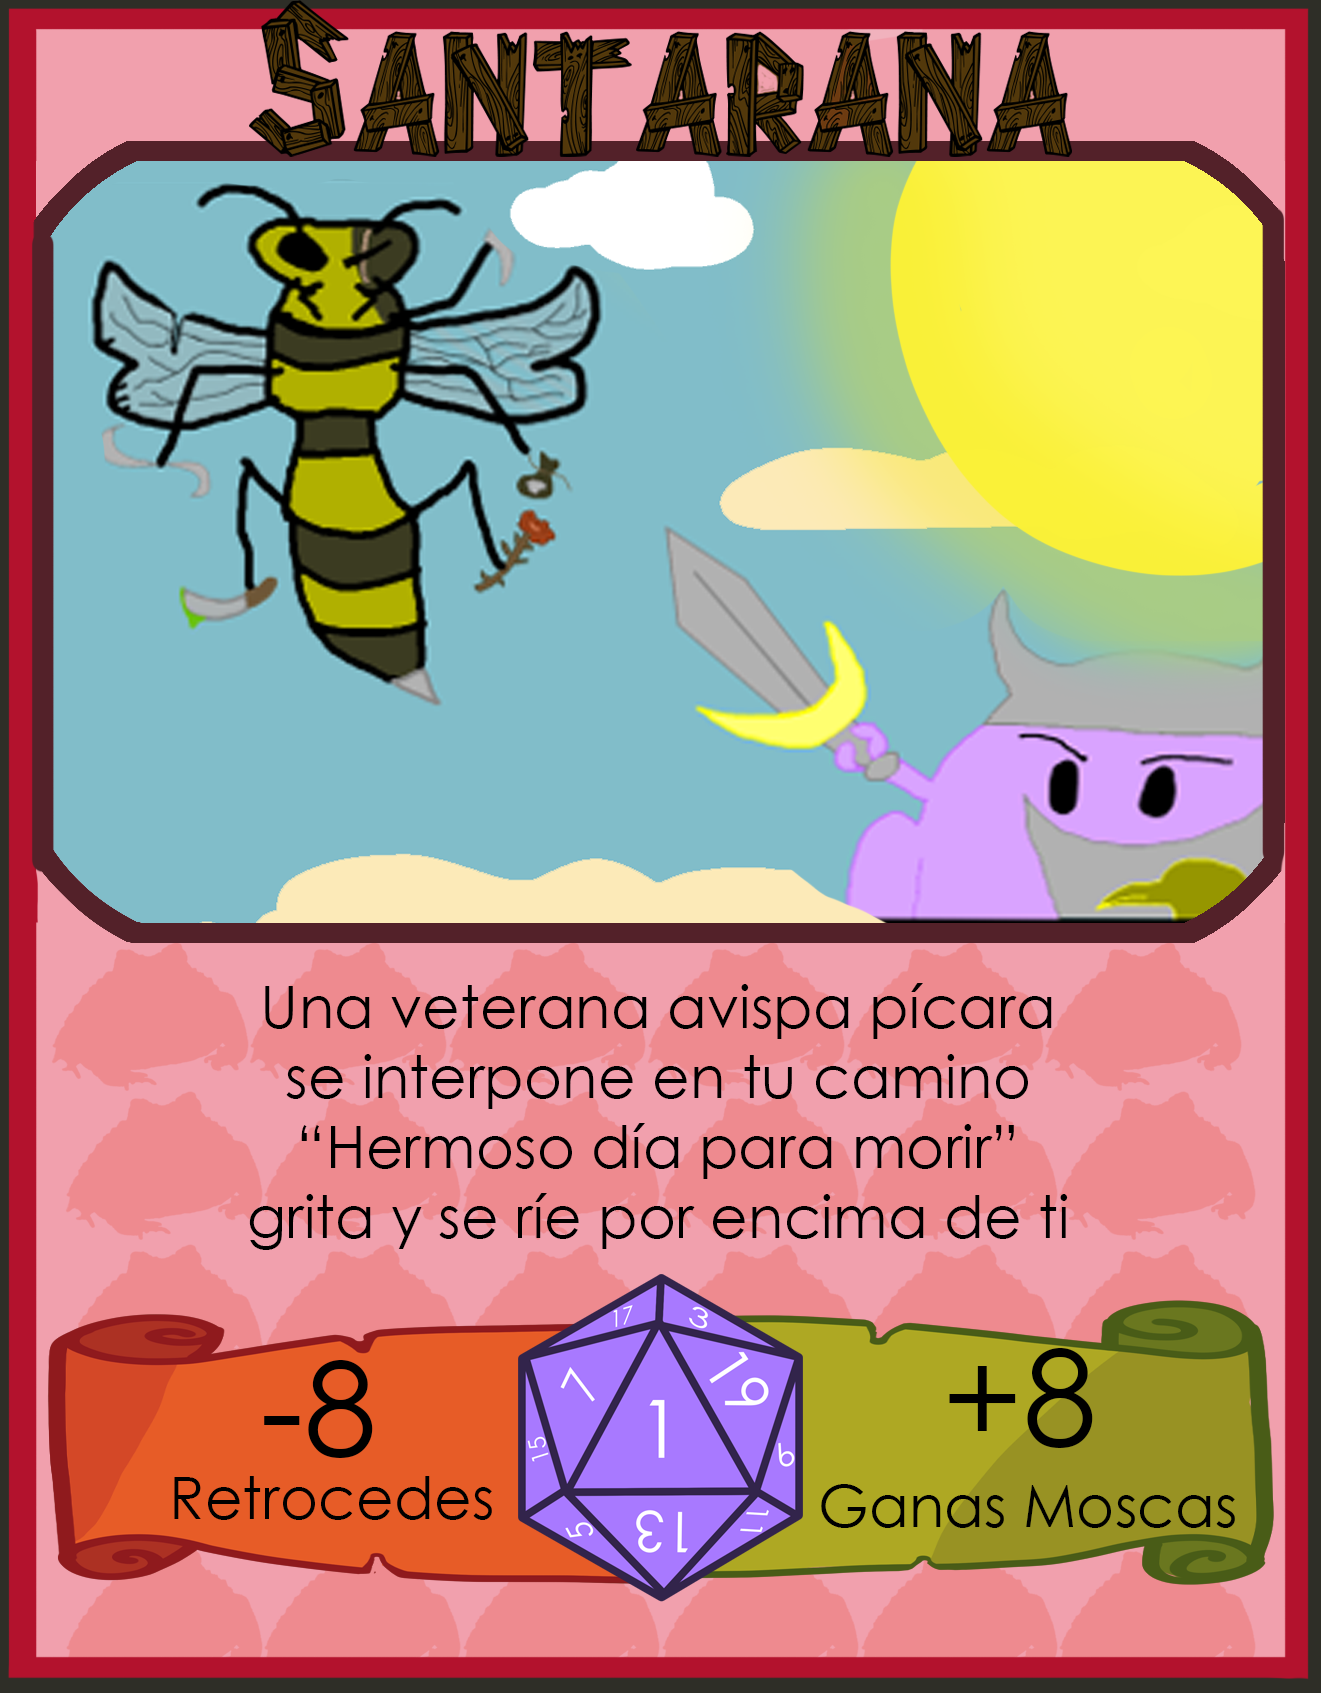
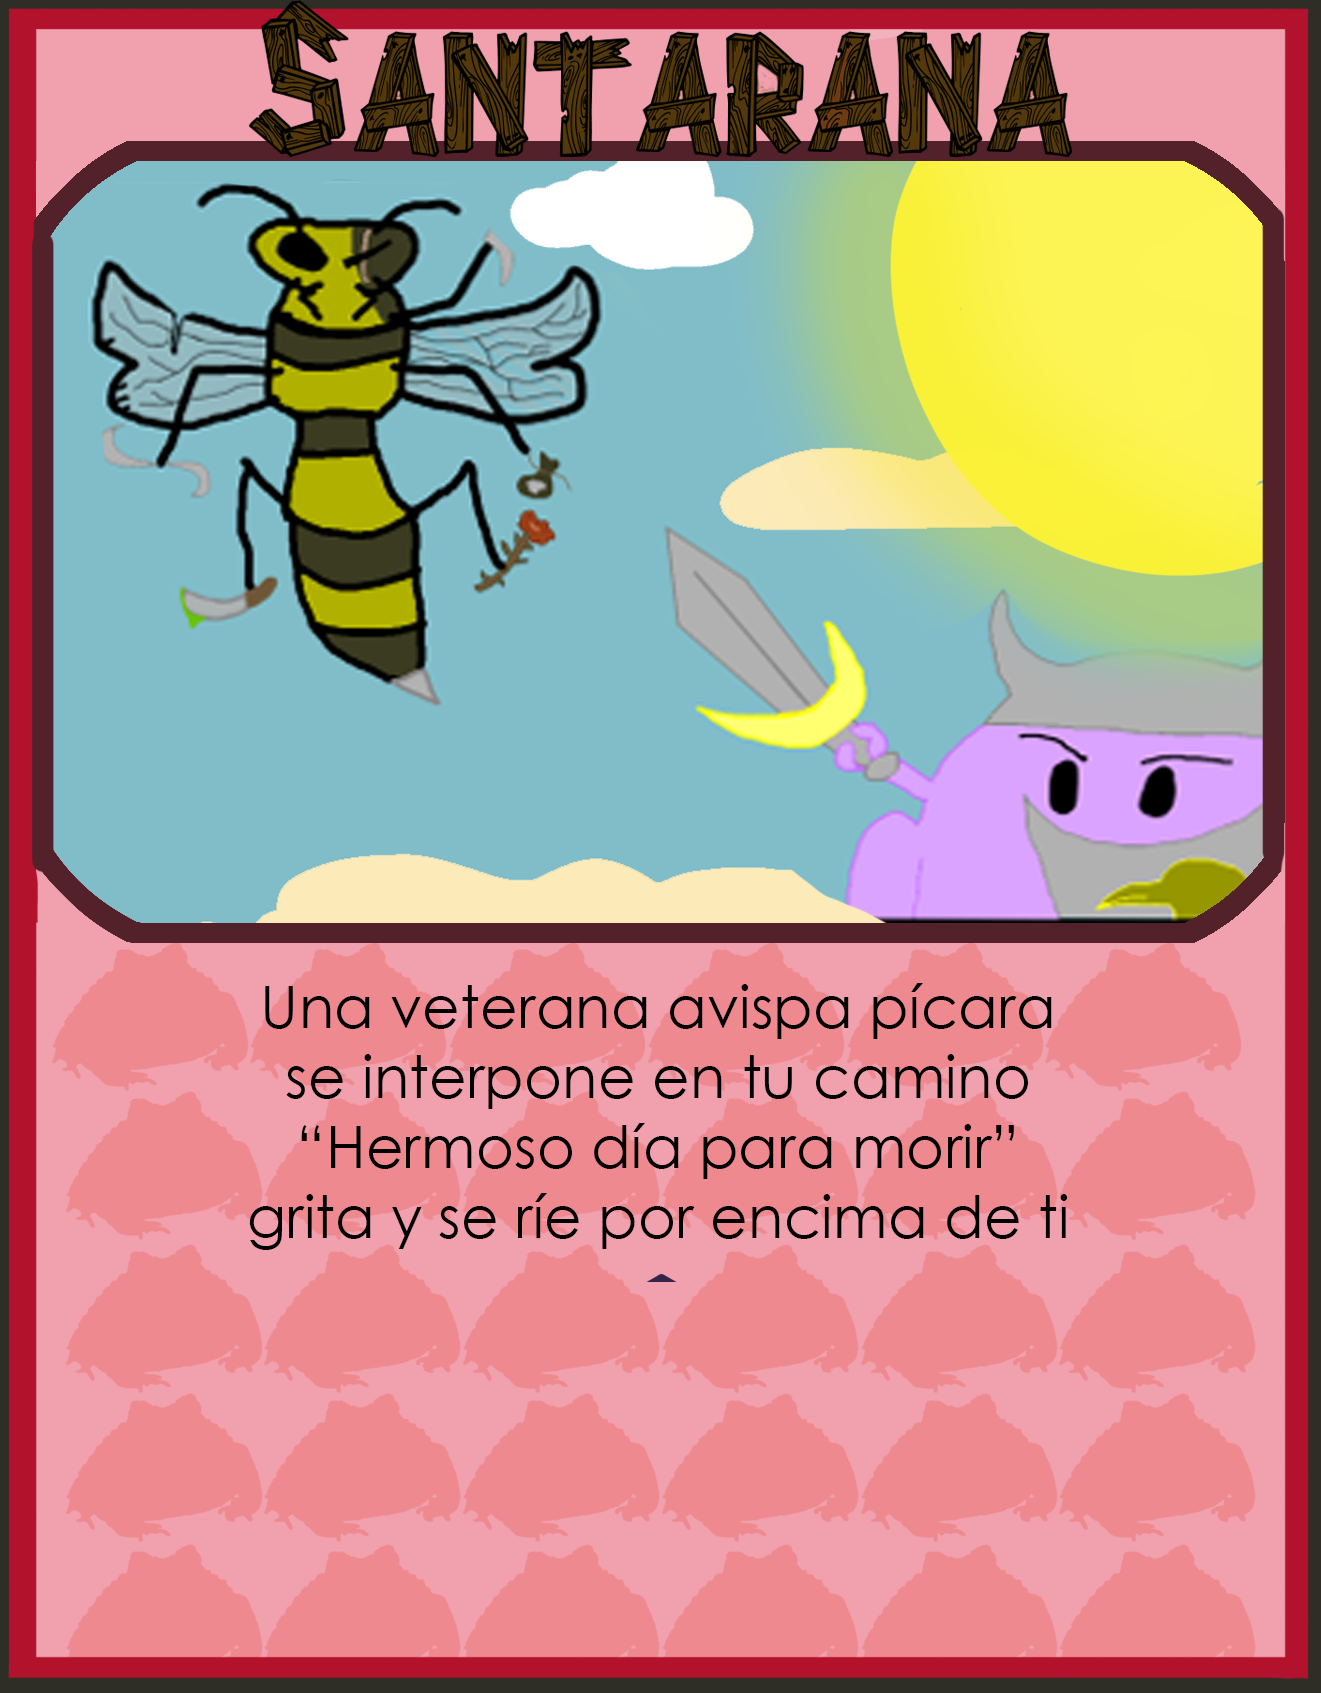
Se implementaron los botones de las cartas renovados y nuevas funciones como el retroceso y avance(falta mejorar y agregar función de las cartas rojas

Changed region(s): [[0.031, 0.7372, 0.9621, 0.9522]]

diff --git a/src/scenes/play.js b/src/scenes/play.js
@@ -23,7 +23,6 @@ var XD;
 var sonid4; //Sonido dado d4
 var saltotesonido; //Sonido saltote
 var sonidorana;
-var victoria;
 var gameOver;
 let coco = 4800;
 let player;
@@ -43,9 +42,9 @@ export class Play extends Phaser.Scene {
 
   create() {
     this.parallax = this.add.image(coco, 100, 'nubes_bg');
-    let animaciones = [["desfrog", "sfrog"],["tpfrog","destpfrog"]];
-    const tablero = this.make.tilemap({ key: "tablero"}); 
-    const tilesetBelow = tablero.addTilesetImage(
+    let animaciones = [["desfrog", "sfrog"],["tpfrog2","destpfrog2"],["tpfrog3","destpfrog2"]];
+    this.tablero = this.make.tilemap({ key: "tablero"}); 
+    const tilesetBelow = this.tablero.addTilesetImage(
       "tablero_bg",
       "tilesBelow"
     );
@@ -54,18 +53,18 @@ export class Play extends Phaser.Scene {
       //"tilesPlatform"
     //);
 
-    const worldLayer = tablero.createLayer("Fondo", tilesetBelow, 0, 0);
+    const worldLayer = this.tablero.createLayer("Fondo", tilesetBelow, 0, 0);
     //const worldLayer = tablero.createLayer("CasillaRoja", tilesetPlatform, 0, 0);
-    const objectsLayer = tablero.getObjectLayer("Objetos");
+    const objectsLayer = this.tablero.getObjectLayer("Objetos");
 
     //worldLayer.setCollisionByProperty({ collides: true });
 
     // The player1 and its settings
-    let spawnPoint = tablero.findObject("Players", (obj) => obj.name === "sapo0");
+    let spawnPoint = this.tablero.findObject("Players", (obj) => obj.name === "sapo0");
     let player1 = this.physics.add.sprite(spawnPoint.x, spawnPoint.y, "sapo0").setScale(0.1);
-    spawnPoint = tablero.findObject("Players", (obj) => obj.name === "sapo1");
+    spawnPoint = this.tablero.findObject("Players", (obj) => obj.name === "sapo1");
     let player2 = this.physics.add.sprite(spawnPoint.x, spawnPoint.y, "sapo1").setScale(0.1);
-    spawnPoint = tablero.findObject("Players", (obj) => obj.name === "sapo2");
+    spawnPoint = this.tablero.findObject("Players", (obj) => obj.name === "sapo2");
     let player3 = this.physics.add.sprite(spawnPoint.x, spawnPoint.y, "sapo2").setScale(0.1);
     player1.setCollideWorldBounds(true);
     player2.setCollideWorldBounds(true);
@@ -133,7 +132,7 @@ export class Play extends Phaser.Scene {
     proxcasjg3 = 0;
     this.JugadorTurno("Jugador 1");
 
-    spawnPoint = tablero.findObject("Botones", (obj) => obj.name == ('Dado'));
+    spawnPoint = this.tablero.findObject("Botones", (obj) => obj.name == ('Dado'));
     let BotonDado = new Button( //Lanzar Dado
       spawnPoint.x,
       spawnPoint.y,
@@ -145,21 +144,18 @@ export class Play extends Phaser.Scene {
           let randomNumber = Math.floor(Math.random()*4) + 1;
           this.Dado(randomNumber);
           if (JTurno == '0') {
-            this.JugadorTurno("Jugador 2");
             proxcasjg1 += randomNumber;
             proxcas = proxcasjg1;
           } else if (JTurno == '1') {
-            this.JugadorTurno("Jugador 3");
             proxcasjg2 += randomNumber;
             proxcas = proxcasjg2;
           } else {
-            this.JugadorTurno("Jugador 1");
             proxcasjg3 += randomNumber;
             proxcas = proxcasjg3;
           }
           
           if (proxcas>=41) {
-            let casPoint = tablero.findObject("Objetos", (obj) => obj.type === "41");
+            let casPoint = this.tablero.findObject("Objetos", (obj) => obj.type === "41");
             setTimeout(() => {
               Players[JTurno].setPosition(casPoint.x+1, casPoint.y+1);
             }, 2000);
@@ -172,23 +168,23 @@ export class Play extends Phaser.Scene {
             gameOver = true;
           } else {
             XD = 1;
-            var casPoint = tablero.findObject("Objetos", (obj) => obj.type == (proxcas));
+            let casPoint = this.tablero.findObject("Objetos", (obj) => obj.type == (proxcas));
             Players[JTurno].play(animaciones[JTurno][0]);
             setTimeout(() => {
               Players[JTurno].setPosition(casPoint.x+1, casPoint.y+1);
               Players[JTurno].play(animaciones[JTurno][1]);
-            }, 1500);
+            }, 1000);
             //this.Carta(proxcas);
             setTimeout(() => {
               Players[JTurno].stop();
-              this.Casilla(proxcas);
+              this.Casilla(proxcas, Players[JTurno]);
               Players[JTurno].setTexture('sapo'+ JTurno);
-            }, 3000);
+            }, 2000);
           }
       });
       BotonDado.achicar(0.2);
       
-      spawnPoint = tablero.findObject("Botones", (obj) => obj.name == ('Saltote'));
+      spawnPoint = this.tablero.findObject("Botones", (obj) => obj.name == ('Saltote'));
       this.BotonSalto = new Button( //Lanzar saltote
       spawnPoint.x,
       spawnPoint.y,
@@ -206,23 +202,20 @@ export class Play extends Phaser.Scene {
           {
             saltotesonido.play();
               if (JTurno == '0') {
-              this.JugadorTurno("Jugador 2");
               proxcasjg1 += 8;
               proxcas = proxcasjg1;
               scorejg1-=20;
             } else if (JTurno == '1') {
-              this.JugadorTurno("Jugador 3");
               proxcasjg2 += 8;
               proxcas = proxcasjg2;
               scorejg2-=20;
             } else {
-              this.JugadorTurno("Jugador 1");
               proxcasjg3 += 8;
               proxcas = proxcasjg3;
               scorejg3-=20;
             }
             XD = 1;
-            var casPoint = tablero.findObject("Objetos", (obj) => obj.type == (proxcas));
+            var casPoint = this.tablero.findObject("Objetos", (obj) => obj.type == (proxcas));
             setTimeout(() => {
               Players[JTurno].setPosition(casPoint.x+1, casPoint.y+1)
               this.Casilla(proxcas);
@@ -231,15 +224,16 @@ export class Play extends Phaser.Scene {
         });
         this.BotonSalto.achicar(0.12);
 
-      scorejg1 = 30;
-      scorejg2 = 30;
-      scorejg3 = 30;
+      scorejg1 = 300;
+      scorejg2 = 300;
+      scorejg3 = 300;
       scoreac = 30;
 
-      spawnPoint = tablero.findObject("Botones", (obj) => obj.name == ('Score'));
+      spawnPoint = this.tablero.findObject("Botones", (obj) => obj.name == ('Score'));
       this.add.sprite(spawnPoint.x, spawnPoint.y, 'ContMoscas').setScale(0.2);
       scoretext = this.add.text(spawnPoint.x*1.05, spawnPoint.y*0.60, "", { //Texto Score
         fontSize: "36px",
+        // @ts-ignore
         fill: "#000000",
         fontFamily: 'Arial'
       });
@@ -253,7 +247,7 @@ export class Play extends Phaser.Scene {
         this.scene.switch("Opcion");
       });
      
-    spawnPoint = tablero.findObject("Botones", (obj) => obj.name == ('Ayuda'));
+    spawnPoint = this.tablero.findObject("Botones", (obj) => obj.name == ('Ayuda'));
     new Button( //Ayuda
     spawnPoint.x, spawnPoint.y,
        "ayuda",
@@ -285,13 +279,13 @@ export class Play extends Phaser.Scene {
   }
     //Funciones
 
-    Casilla(proxcas){
+    Casilla(proxcas, pos){
         if (proxcas == 3 || proxcas == 6 || proxcas == 9 || proxcas == 12 || proxcas == 15 || proxcas == 18  || proxcas == 21 || proxcas == 24 || proxcas == 27 || proxcas == 30 || proxcas == 33 || proxcas == 36 || proxcas == 39){
           this.CartaRoja(proxcas);
         } else if (proxcas == 1 || proxcas == 4 || proxcas == 7 || proxcas == 10 || proxcas == 13 || proxcas == 16 || proxcas == 19 || proxcas == 22 || proxcas == 25 || proxcas == 28 || proxcas == 31 || proxcas == 34 || proxcas == 37 || proxcas == 40){
           this.CartaVerde(proxcas);
         } else {
-          this.CartaAmarilla(proxcas);
+          this.CartaAmarilla(proxcas, pos);
         }
       }
 
@@ -335,36 +329,44 @@ export class Play extends Phaser.Scene {
       }
     }
 
-    amarilla(){
-      if (XD == 1) {
+    amarilla(proxcas, pos){
+      if (this.d20() >= 8) {
         if (CTurno == 'Jugador 1') {
-          scorejg1 -= 10;
-          scoreac = scorejg2;
-          XD +=1;
+          const numcas = parseInt(proxcas) + 2;
+          let casPoint = this.tablero.findObject("Objetos", (obj) => obj.type == (numcas.toString()));
+          pos.setPosition(casPoint.x+1, casPoint.y+1);
         } else if (CTurno == 'Jugador 2') {
-          scorejg2 -= 10;
-          scoreac = scorejg3;
-          XD +=1;
+          const numcas = parseInt(proxcas) + 2;
+          let casPoint = this.tablero.findObject("Objetos", (obj) => obj.type == (numcas.toString()));
+          pos.setPosition(casPoint.x+1, casPoint.y+1);
         } else if (CTurno == 'Jugador 3'){
-          scorejg3 -= 10;
+          const numcas = parseInt(proxcas) + 2;
+          let casPoint = this.tablero.findObject("Objetos", (obj) => obj.type == (numcas.toString()));
+          pos.setPosition(casPoint.x+1, casPoint.y+1);
           scoreac = scorejg1;
-          XD +=1;
         }
-        this.turno();
-        scoretext.setText(scoreac);
+      } else {
+        const numcas = parseInt(proxcas) - 2;
+        let casPoint = this.tablero.findObject("Objetos", (obj) => obj.type == (numcas.toString()));
+        pos.setPosition(casPoint.x+1, casPoint.y+1);
       }
+      this.turno();
+      scoretext.setText(scoreac);
     }
 
     turno(){
       if (JTurno == '0') {
         JTurno = '1';
         CTurno = 'Jugador 2';
+        this.JugadorTurno(CTurno);
       } else if (JTurno == '1') {
         JTurno = '2';
         CTurno = 'Jugador 3';
+        this.JugadorTurno(CTurno);
       } else if (JTurno == '2'){
         JTurno = '0';
         CTurno = 'Jugador 1';
+        this.JugadorTurno(CTurno);
       }
     }
 
@@ -397,13 +399,13 @@ export class Play extends Phaser.Scene {
       this,
       () => {this.roja()})
     }
-    CartaAmarilla(NCarta){
+    CartaAmarilla(NCarta, pos){
       new CartaAm( //carta?
       this.cameras.main.centerX,
       this.cameras.main.centerY,
       '2',
       this,
-      () => {this.amarilla()},() => { this.turno();
+      () => {this.amarilla(NCarta, pos)},() => { this.turno();
       scoretext.setText(scoreac)})
     }
     CartaVerde(NCarta){
@@ -413,6 +415,9 @@ export class Play extends Phaser.Scene {
       '1',
       this,
       () => {this.verde()})
+    }
+    d20(){
+      return Math.floor(Math.random()*20) + 1;
     }
 }
 

diff --git a/src/scenes/preloads.js b/src/scenes/preloads.js
@@ -52,6 +52,14 @@ export class Preloads extends Phaser.Scene {
       frameWidth: 1125,
       frameHeight: 834,
     });
+    this.load.spritesheet("tp3", "assets/images/sapo3tp.png", {
+      frameWidth: 1125,
+      frameHeight: 834,
+    });
+    this.load.spritesheet("victoriafinal", "assets/images/victoriafinal.png", {
+      frameWidth: 999,
+      frameHeight: 1000,
+    });
     this.load.image('vacio','assets/images/casillerovacio.png') //Vacio tuki
     //Botones
     this.load.image('ayuda','assets/images/ayuda.png');
@@ -78,8 +86,6 @@ export class Preloads extends Phaser.Scene {
     this.load.image('botonam1','assets/images/cartas/Boton1Amarilla.png');
     this.load.image('botonam2','assets/images/cartas/Boton2Amarilla.png');
     this.load.image('botonro1','assets/images/cartas/Boton1Rojo.png');
-    //Video
-    this.load.video('final','assets/images/omglf.mp4')
   }
 
   create() {
@@ -99,10 +105,12 @@ export class Preloads extends Phaser.Scene {
            fontFamily: 'Arial'
        })
       //this.player = this.add.sprite(this.cameras.main.centerX, this.cameras.main.centerY, 'despawn'); sale animazao
-      this.anims.create({key:"desfrog", frames: this.anims.generateFrameNumbers("despawn", {start:0, end:6}), duration: 1500, repeat:0})
-      this.anims.create({key:"sfrog", frames: this.anims.generateFrameNumbers("spawn", {start:0, end:6}), duration: 1500, repeat:0})
-      this.anims.create({key:"destpfrog", frames: this.anims.generateFrameNumbers("destp", {start:0, end:10}), duration: 1500, repeat:0})
-      this.anims.create({key:"tpfrog", frames: this.anims.generateFrameNumbers("tp", {start:0, end:10}), duration: 1500, repeat:0})
+      this.anims.create({key:"desfrog", frames: this.anims.generateFrameNumbers("despawn", {start:0, end:6}), duration: 1000, repeat:0})
+      this.anims.create({key:"sfrog", frames: this.anims.generateFrameNumbers("spawn", {start:0, end:6}), duration: 1000, repeat:0})
+      this.anims.create({key:"tpfrog2", frames: this.anims.generateFrameNumbers("tp", {start:0, end:10}), duration: 1000, repeat:0})
+      this.anims.create({key:"destpfrog2", frames: this.anims.generateFrameNumbers("destp", {start:0, end:10}), duration: 1000, repeat:0})
+      this.anims.create({key:"tpfrog3", frames: this.anims.generateFrameNumbers("tp3", {start:0, end:10}), duration: 1000, repeat:0})
+      this.anims.create({key:"victoriarda", frames: this.anims.generateFrameNumbers("victoriafinal", {start:0, end:10}), duration: 2000, repeat:-1})
       // Se agrega un timer y luego a la escena del menú principal
     setTimeout(() => {
       this.scene.start("MainMenu");

diff --git a/src/scenes/victoria.js b/src/scenes/victoria.js
@@ -28,14 +28,15 @@ export class Victoria extends Phaser.Scene {
     }
 
     JugadorTurno(Turno){
-        this.add.image(this.cameras.main.centerX, this.cameras.main.centerY-this.cameras.main.centerY/1.15, Turno).setScale(0.18);
+        let cartel = this.add.sprite(this.cameras.main.centerX, this.cameras.main.centerY/1.25, Turno).setScale(0.4);
         if (Turno == 'Jugador 1') {
-          this.add.image(this.cameras.main.centerX*1.11, this.cameras.main.centerY-this.cameras.main.centerY/1.08, "sapo").setScale(0.6);
+          this.add.image(this.cameras.main.centerX*1.15, this.cameras.main.centerY*1.3, "sapo0").setScale(0.2);
         } else if (Turno == 'Jugador 2') {
-          this.add.image(this.cameras.main.centerX*1.11, this.cameras.main.centerY-this.cameras.main.centerY/1.08, "sapo2").setScale(0.6);
+          this.add.image(this.cameras.main.centerX*1.15, this.cameras.main.centerY*1.3, "sapo1").setScale(0.2);
         } else if (Turno == 'Jugador 3'){
-          this.add.image(this.cameras.main.centerX*1.11, this.cameras.main.centerY-this.cameras.main.centerY/1.08, "sapo3").setScale(0.6);
+          this.add.image(this.cameras.main.centerX*1.15, this.cameras.main.centerY*1.3, "sapo2").setScale(0.2);
         }
+        cartel.play('victoriarda');
       }
 
       Ganador(Jugador){

diff --git a/src/js/cartasam.js b/src/js/cartasam.js
@@ -4,10 +4,10 @@ class CartaAm {
     boton3;
     constructor(x, y, img1, scene, callback1, callback2) {
             this.boton = scene.add.image(x, y, img1).setScale(0.5),
-            this.boton2 = scene.add.image(x*0.93, y*1.455, 'botonam1').setScale(0.5)
+            this.boton2 = scene.add.image(x*1, y*1.46, 'botonam1').setScale(0.5)
             .setInteractive({ useHandCursor: true })
             .on('pointerdown', () => this.desactivar(callback1)),
-            this.boton3 = scene.add.image(x*1.29, y*1.455, 'botonam2').setScale(0.5)
+            this.boton3 = scene.add.image(x*1, y*1.66, 'botonam2').setScale(0.5)
             .setInteractive({ useHandCursor: true })
             .on('pointerdown', () => this.desactivar(callback2))
         }

diff --git a/src/js/cartasro.js b/src/js/cartasro.js
@@ -3,7 +3,7 @@ class CartaRo {
     boton2;
     constructor(x, y, img1, scene, callback1) {
             this.boton = scene.add.image(x, y, img1).setScale(0.5),
-            this.boton2 = scene.add.image(x*1, y*1.275, 'botonro1').setScale(0.5)
+            this.boton2 = scene.add.image(x*1, y*1.65, 'botonro1').setScale(0.5)
             .setInteractive({ useHandCursor: true })
             .on('pointerdown', () => this.desactivar(callback1))
         }
